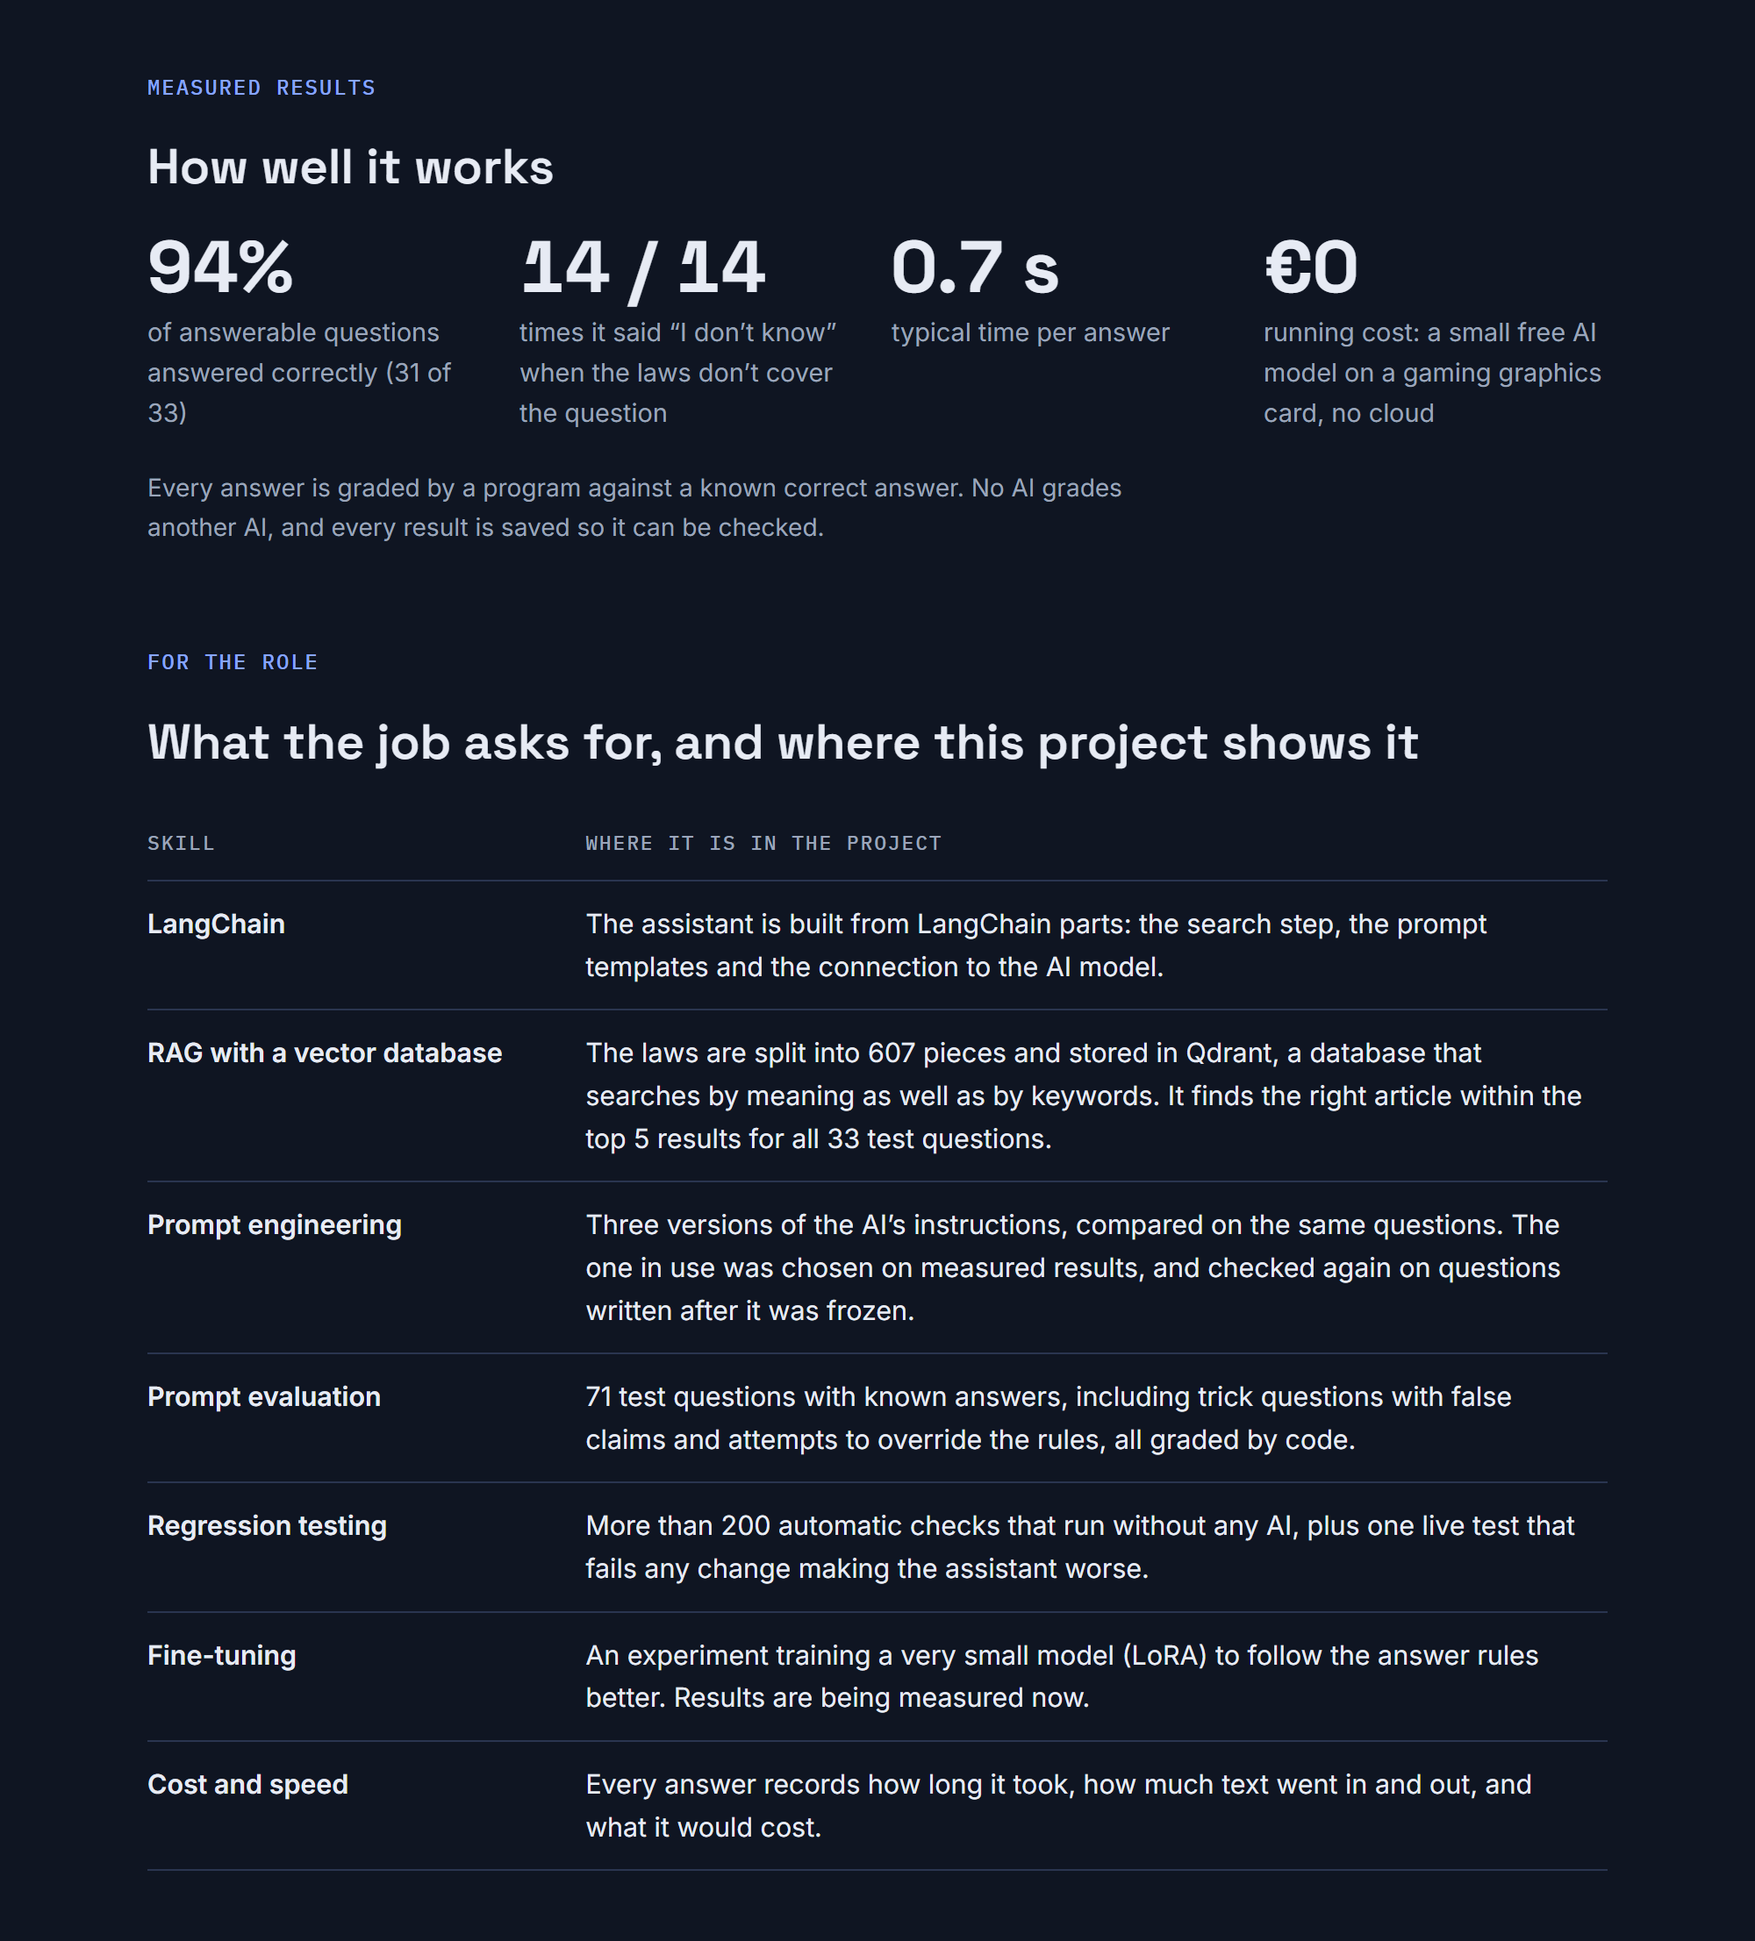
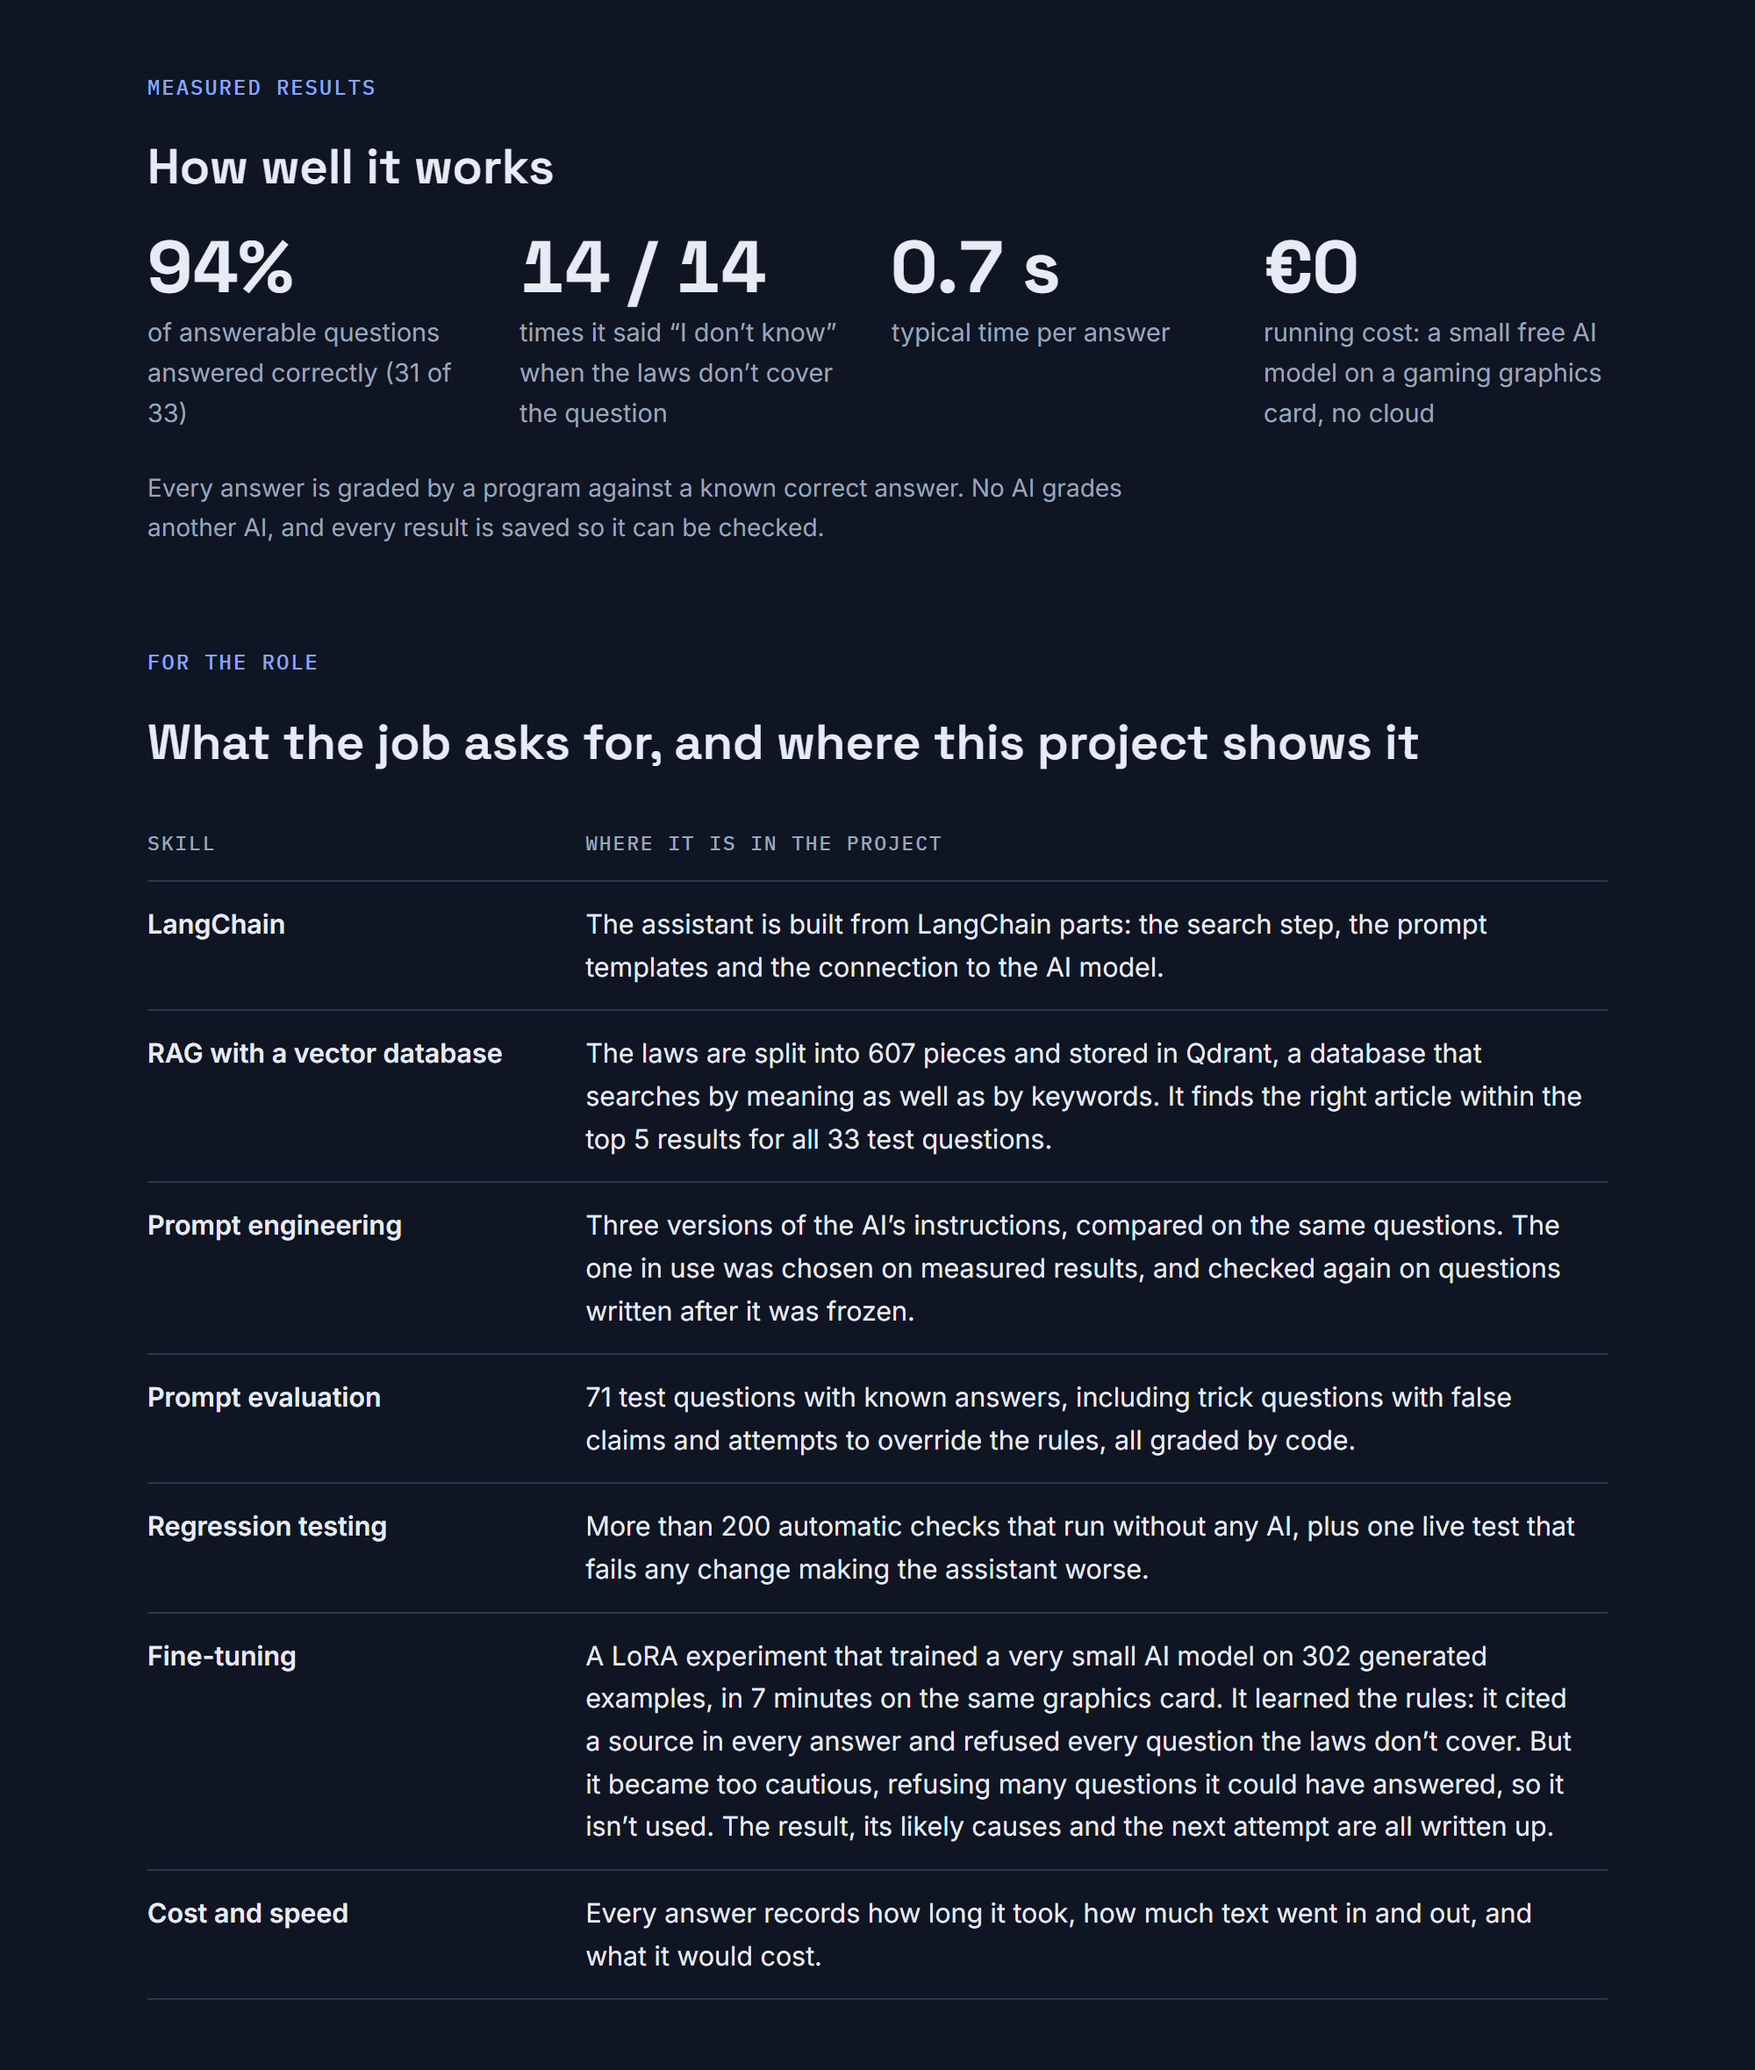
Show the fine-tuning result in the plain-language overview
The overview's skills table now states the LoRA outcome in plain words
instead of "being measured", the screenshot is re-taken from it, and the
README ends with that screenshot for readers outside AI.

diff --git a/README.md b/README.md
@@ -240,6 +240,12 @@ tests/              offline tests, plus test_prompt_regression.py (marked live)
 - **The index lives in memory** and is rebuilt in about 30 s per process. That's fine at 607 chunks. A larger corpus would use Qdrant on disk or as a server.
 - **Tested on Windows only,** with one GPU. Other OpenAI-compatible local servers (Ollama, LM Studio) should work through `BANKRAG_LOCAL_URL`, but haven't been tried.
 
+## In plain words
+
+For readers outside AI: the measured results, and where the project shows each skill an AI prompt engineering role asks for.
+
+![Measured results in plain words (94% answered correctly, 14 of 14 correct refusals, 0.7 s per answer, no running cost), and a table mapping LangChain, RAG with a vector database, prompt engineering, prompt evaluation, regression testing, fine-tuning and cost tracking to where each appears in the project.](docs/figures/results.png)
+
 ## Licence
 
 The code and eval data are under the [MIT License](LICENSE). The texts in `data/corpus.jsonl` are EU legislation, © European Union, reused under Commission Decision 2011/833/EU ([data/README.md](data/README.md)).
